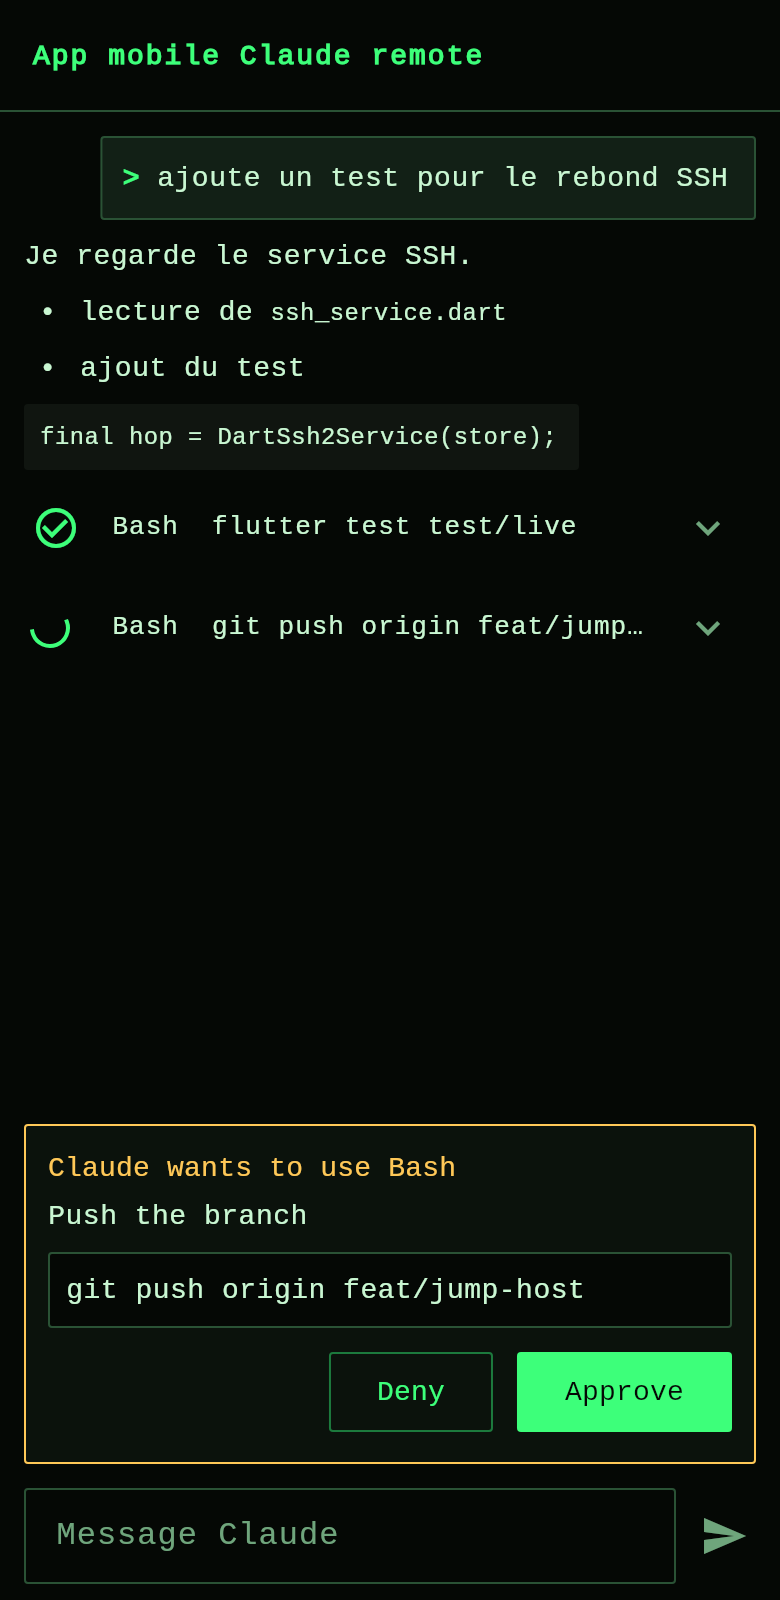
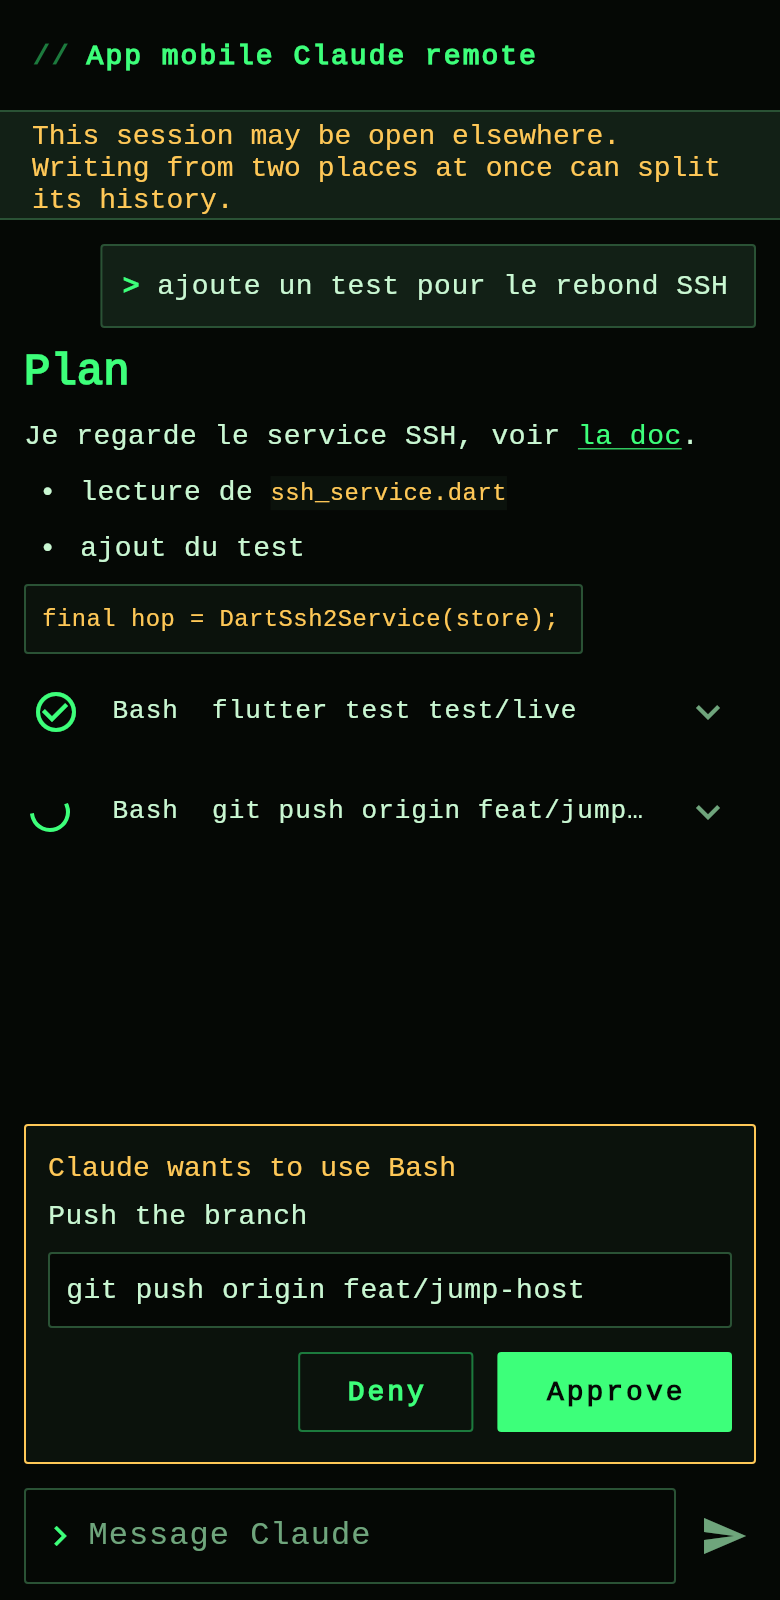
feat: carry the terminal look to every screen

diff --git a/lib/ui/profiles_screen.dart b/lib/ui/profiles_screen.dart
@@ -6,6 +6,7 @@ import '../ssh/key.dart';
 import '../ssh/profile.dart';
 import '../state/providers.dart';
 import 'sessions_screen.dart';
+import 'terminal_widgets.dart';
 
 class ProfilesScreen extends ConsumerWidget {
   const ProfilesScreen({super.key});
@@ -14,7 +15,7 @@ class ProfilesScreen extends ConsumerWidget {
   Widget build(BuildContext context, WidgetRef ref) {
     final profiles = ref.watch(profilesProvider);
     return Scaffold(
-      appBar: AppBar(title: const Text('Profiles')),
+      appBar: AppBar(title: const TermTitle('Profiles')),
       floatingActionButton: FloatingActionButton(
         tooltip: 'Add profile',
         onPressed: () => Navigator.of(context).push(
@@ -27,7 +28,7 @@ class ProfilesScreen extends ConsumerWidget {
         error: (e, _) => Center(child: Text('$e')),
         data: (list) => list.isEmpty
             ? const Center(
-                child: Text('No profile yet. Add one to reach a server.'),
+                child: TermLine('No profile yet. Add one to reach a server.'),
               )
             : ListView(
                 children: [
@@ -170,7 +171,7 @@ class _ProfileFormScreenState extends ConsumerState<ProfileFormScreen> {
   @override
   Widget build(BuildContext context) {
     return Scaffold(
-      appBar: AppBar(title: const Text('New profile')),
+      appBar: AppBar(title: const TermTitle('New profile')),
       body: Form(
         key: _form,
         // Not a lazy list: every field must exist to be validated.
@@ -184,6 +185,7 @@ class _ProfileFormScreenState extends ConsumerState<ProfileFormScreen> {
                 decoration: const InputDecoration(labelText: 'Name'),
                 validator: _required,
               ),
+              const SizedBox(height: 14),
               TextFormField(
                 controller: _host,
                 decoration: const InputDecoration(labelText: 'Host'),
@@ -191,18 +193,21 @@ class _ProfileFormScreenState extends ConsumerState<ProfileFormScreen> {
                 keyboardType: TextInputType.url,
                 validator: _required,
               ),
+              const SizedBox(height: 14),
               TextFormField(
                 controller: _port,
                 decoration: const InputDecoration(labelText: 'Port'),
                 keyboardType: TextInputType.number,
                 validator: _validPort,
               ),
+              const SizedBox(height: 14),
               TextFormField(
                 controller: _user,
                 decoration: const InputDecoration(labelText: 'User'),
                 autocorrect: false,
                 validator: _required,
               ),
+              const SizedBox(height: 14),
               TextFormField(
                 controller: _jumpHost,
                 decoration: const InputDecoration(
@@ -215,12 +220,14 @@ class _ProfileFormScreenState extends ConsumerState<ProfileFormScreen> {
                 autocorrect: false,
                 keyboardType: TextInputType.url,
               ),
+              const SizedBox(height: 14),
               TextFormField(
                 controller: _jumpPort,
                 decoration: const InputDecoration(labelText: 'Jump port'),
                 keyboardType: TextInputType.number,
                 validator: (v) => _hasJump ? _validPort(v) : null,
               ),
+              const SizedBox(height: 14),
               TextFormField(
                 controller: _jumpUser,
                 decoration: const InputDecoration(labelText: 'Jump user'),
@@ -229,6 +236,7 @@ class _ProfileFormScreenState extends ConsumerState<ProfileFormScreen> {
                     ? 'Required with a jump host'
                     : null,
               ),
+              const SizedBox(height: 14),
               TextFormField(
                 controller: _key,
                 decoration: InputDecoration(
@@ -245,6 +253,7 @@ class _ProfileFormScreenState extends ConsumerState<ProfileFormScreen> {
                 maxLines: 6,
                 validator: _required,
               ),
+              const SizedBox(height: 14),
               TextFormField(
                 controller: _passphrase,
                 decoration: InputDecoration(

diff --git a/lib/ui/chat_screen.dart b/lib/ui/chat_screen.dart
@@ -12,6 +12,7 @@ import '../state/providers.dart';
 import '../state/session_controller.dart';
 import 'markdown_text.dart';
 import 'permission_card.dart';
+import 'terminal_widgets.dart';
 
 /// The conversation itself; knows nothing about how it is connected.
 class ChatView extends StatefulWidget {
@@ -78,7 +79,7 @@ class _ChatViewState extends State<ChatView> {
   Widget build(BuildContext context) {
     final controller = widget.controller;
     return Scaffold(
-      appBar: AppBar(title: Text(widget.title)),
+      appBar: AppBar(title: TermTitle(widget.title)),
       body: SafeArea(
         child: ValueListenableBuilder<ChatState>(
           valueListenable: controller,
@@ -114,7 +115,7 @@ class _ChatViewState extends State<ChatView> {
                 if (!controller.connected)
                   Padding(
                     padding: const EdgeInsets.all(8),
-                    child: FilledButton.tonal(
+                    child: OutlinedButton(
                       onPressed: _reconnecting ? null : _reconnect,
                       child: Text(
                         _reconnecting ? 'Reconnecting…' : 'Reconnect',
@@ -133,8 +134,12 @@ class _ChatViewState extends State<ChatView> {
                           textInputAction: TextInputAction.newline,
                           decoration: const InputDecoration(
                             hintText: 'Message Claude',
-                            border: OutlineInputBorder(),
-                            isDense: true,
+                            // Always shown, unlike prefixText.
+                            prefixIcon: Padding(
+                              padding: EdgeInsets.only(left: 8),
+                              child: Icon(Icons.chevron_right, size: 20),
+                            ),
+                            prefixIconConstraints: BoxConstraints(),
                           ),
                         ),
                       ),
@@ -202,11 +207,7 @@ class _ItemView extends StatelessWidget {
       case NoticeItem():
         return Padding(
           padding: const EdgeInsets.symmetric(horizontal: 12, vertical: 6),
-          child: Text(
-            item.text,
-            textAlign: TextAlign.center,
-            style: TextStyle(color: scheme.error),
-          ),
+          child: TermLine(item.text, fault: true),
         );
     }
   }
@@ -450,7 +451,7 @@ class _ChatScreenState extends ConsumerState<ChatScreen>
       );
     }
     return Scaffold(
-      appBar: AppBar(title: Text(title)),
+      appBar: AppBar(title: TermTitle(title)),
       body: Center(
         child: _error == null
             ? const CircularProgressIndicator()
@@ -459,7 +460,7 @@ class _ChatScreenState extends ConsumerState<ChatScreen>
                 child: Column(
                   mainAxisSize: MainAxisSize.min,
                   children: [
-                    Text('$_error', textAlign: TextAlign.center),
+                    TermLine('$_error', fault: true),
                     const SizedBox(height: 16),
                     FilledButton(
                       onPressed: _retryOpen,

diff --git a/lib/ui/markdown_text.dart b/lib/ui/markdown_text.dart
@@ -28,6 +28,42 @@ class MarkdownText extends StatelessWidget {
     );
   }
 
+  /// Headings and links in the accent colour, code in a ruled box: the
+  /// package's own defaults are blue links on grey.
+  static MarkdownStyleSheet _sheet(fm.ThemeData base, ColorScheme scheme) {
+    final heading = TextStyle(
+      color: scheme.primary,
+      fontWeight: FontWeight.bold,
+    );
+    final box = BoxDecoration(
+      color: scheme.surfaceContainerLow,
+      border: Border.all(color: scheme.outlineVariant),
+      borderRadius: BorderRadius.circular(2),
+    );
+    final sheet = MarkdownStyleSheet.fromTheme(base);
+    return sheet.copyWith(
+      a: TextStyle(
+        color: scheme.primary,
+        decoration: TextDecoration.underline,
+        decorationColor: scheme.primary,
+      ),
+      h1: sheet.h1?.merge(heading),
+      h2: sheet.h2?.merge(heading),
+      h3: sheet.h3?.merge(heading),
+      h4: sheet.h4?.merge(heading),
+      code: sheet.code?.copyWith(
+        color: scheme.secondary,
+        backgroundColor: scheme.surfaceContainerLow,
+      ),
+      codeblockDecoration: box,
+      blockquoteDecoration: box,
+      horizontalRuleDecoration: BoxDecoration(
+        border: Border(top: BorderSide(color: scheme.outlineVariant)),
+      ),
+      tableBorder: TableBorder.all(color: scheme.outlineVariant),
+    );
+  }
+
   @override
   Widget build(BuildContext context) {
     final theme = Theme.of(context);
@@ -39,7 +75,13 @@ class MarkdownText extends StatelessWidget {
     );
     return fm.Theme(
       data: _themes[key] ??= _frameworkTheme(theme),
-      child: MarkdownBody(data: data, selectable: true),
+      child: Builder(
+        builder: (context) => MarkdownBody(
+          data: data,
+          selectable: true,
+          styleSheet: _sheet(fm.Theme.of(context), theme.colorScheme),
+        ),
+      ),
     );
   }
 }

diff --git a/lib/ui/theme.dart b/lib/ui/theme.dart
@@ -18,6 +18,12 @@ const _square = RoundedRectangleBorder(
   borderRadius: BorderRadius.all(Radius.circular(2)),
 );
 
+const _buttonText = TextStyle(
+  fontFamily: 'monospace',
+  fontWeight: FontWeight.bold,
+  letterSpacing: 1.5,
+);
+
 /// One look, light or dark phone alike: monospace, square, green on black.
 final ThemeData terminalTheme = _build();
 
@@ -90,19 +96,27 @@ ThemeData _build() {
       ),
       labelStyle: const TextStyle(color: TerminalColors.mutedText),
       helperStyle: const TextStyle(color: TerminalColors.mutedText),
+      helperMaxLines: 3,
+      errorMaxLines: 3,
+      prefixIconColor: TerminalColors.green,
+      prefixStyle: const TextStyle(
+        color: TerminalColors.green,
+        fontWeight: FontWeight.bold,
+      ),
       isDense: true,
     ),
     filledButtonTheme: FilledButtonThemeData(
-      style: FilledButton.styleFrom(shape: _square),
+      style: FilledButton.styleFrom(shape: _square, textStyle: _buttonText),
     ),
     outlinedButtonTheme: OutlinedButtonThemeData(
       style: OutlinedButton.styleFrom(
         shape: _square,
+        textStyle: _buttonText,
         side: const BorderSide(color: TerminalColors.dimGreen),
       ),
     ),
     textButtonTheme: TextButtonThemeData(
-      style: TextButton.styleFrom(shape: _square),
+      style: TextButton.styleFrom(shape: _square, textStyle: _buttonText),
     ),
     floatingActionButtonTheme: const FloatingActionButtonThemeData(
       backgroundColor: TerminalColors.green,

diff --git a/lib/ui/lock_gate.dart b/lib/ui/lock_gate.dart
@@ -1,6 +1,8 @@
 import 'package:local_auth/local_auth.dart';
 import 'package:material_ui/material_ui.dart';
 
+import 'terminal_widgets.dart';
+
 /// Device unlock: true/false for the outcome, null when the device has no
 /// lock at all (nothing to gate with).
 Future<bool?> deviceAuthenticate() async {
@@ -62,8 +64,23 @@ class _LockGateState extends State<LockGate> {
             : Column(
                 mainAxisSize: MainAxisSize.min,
                 children: [
-                  const Icon(Icons.lock_outline, size: 48),
-                  const SizedBox(height: 16),
+                  Text(
+                    'CLAUDE//MOBILE',
+                    style: Theme.of(context).textTheme.headlineSmall?.copyWith(
+                      color: Theme.of(context).colorScheme.primary,
+                      fontWeight: FontWeight.bold,
+                      letterSpacing: 3,
+                    ),
+                  ),
+                  const SizedBox(height: 24),
+                  Icon(
+                    Icons.lock_outline,
+                    size: 48,
+                    color: Theme.of(context).colorScheme.primary,
+                  ),
+                  const SizedBox(height: 12),
+                  const TermLine('Access locked'),
+                  const SizedBox(height: 24),
                   FilledButton(onPressed: _ask, child: const Text('Unlock')),
                 ],
               ),

diff --git a/lib/ui/terminal_widgets.dart b/lib/ui/terminal_widgets.dart
@@ -1,0 +1,47 @@
+import 'package:material_ui/material_ui.dart';
+
+/// A screen title, written as a comment line: `// Profiles`.
+class TermTitle extends StatelessWidget {
+  const TermTitle(this.text, {super.key});
+  final String text;
+
+  @override
+  Widget build(BuildContext context) {
+    final scheme = Theme.of(context).colorScheme;
+    return Row(
+      mainAxisSize: MainAxisSize.min,
+      children: [
+        Text('//', style: TextStyle(color: scheme.outline)),
+        const SizedBox(width: 8),
+        Flexible(child: Text(text, overflow: TextOverflow.ellipsis)),
+      ],
+    );
+  }
+}
+
+/// A line the app says, marked like terminal output: `> text` for
+/// information, `! text` for a fault.
+class TermLine extends StatelessWidget {
+  const TermLine(this.text, {super.key, this.fault = false});
+  final String text;
+  final bool fault;
+
+  @override
+  Widget build(BuildContext context) {
+    final scheme = Theme.of(context).colorScheme;
+    final color = fault ? scheme.error : scheme.onSurfaceVariant;
+    return Row(
+      mainAxisSize: MainAxisSize.min,
+      crossAxisAlignment: CrossAxisAlignment.start,
+      children: [
+        Text(
+          fault ? '! ' : '> ',
+          style: TextStyle(color: color, fontWeight: FontWeight.bold),
+        ),
+        Flexible(
+          child: Text(text, style: TextStyle(color: color)),
+        ),
+      ],
+    );
+  }
+}

diff --git a/lib/ui/sessions_screen.dart b/lib/ui/sessions_screen.dart
@@ -5,6 +5,7 @@ import '../core/session_listing.dart';
 import '../ssh/profile.dart';
 import '../state/providers.dart';
 import 'chat_screen.dart';
+import 'terminal_widgets.dart';
 
 class SessionsScreen extends ConsumerWidget {
   const SessionsScreen({super.key, required this.profile});
@@ -101,7 +102,7 @@ class SessionsScreen extends ConsumerWidget {
 
     return Scaffold(
       appBar: AppBar(
-        title: Text(profile.name),
+        title: TermTitle(profile.name),
         actions: [
           IconButton(
             tooltip: 'Refresh',
@@ -124,7 +125,7 @@ class SessionsScreen extends ConsumerWidget {
             child: Column(
               mainAxisSize: MainAxisSize.min,
               children: [
-                Text('$e', textAlign: TextAlign.center),
+                TermLine('$e', fault: true),
                 const SizedBox(height: 16),
                 FilledButton(onPressed: refresh, child: const Text('Retry')),
               ],
@@ -133,7 +134,9 @@ class SessionsScreen extends ConsumerWidget {
         ),
         data: (list) {
           if (list.isEmpty) {
-            return const Center(child: Text('No session on this server yet.'));
+            return const Center(
+              child: TermLine('No session on this server yet.'),
+            );
           }
           final groups = byCwd(list);
           return ListView(

diff --git a/lib/main.dart b/lib/main.dart
@@ -19,6 +19,7 @@ class ClaudeMobileApp extends StatelessWidget {
     return MaterialApp(
       title: 'Claude Mobile',
       theme: terminalTheme,
+      debugShowCheckedModeBanner: false,
       home: LockGate(authenticate: authenticate, child: const ProfilesScreen()),
     );
   }
